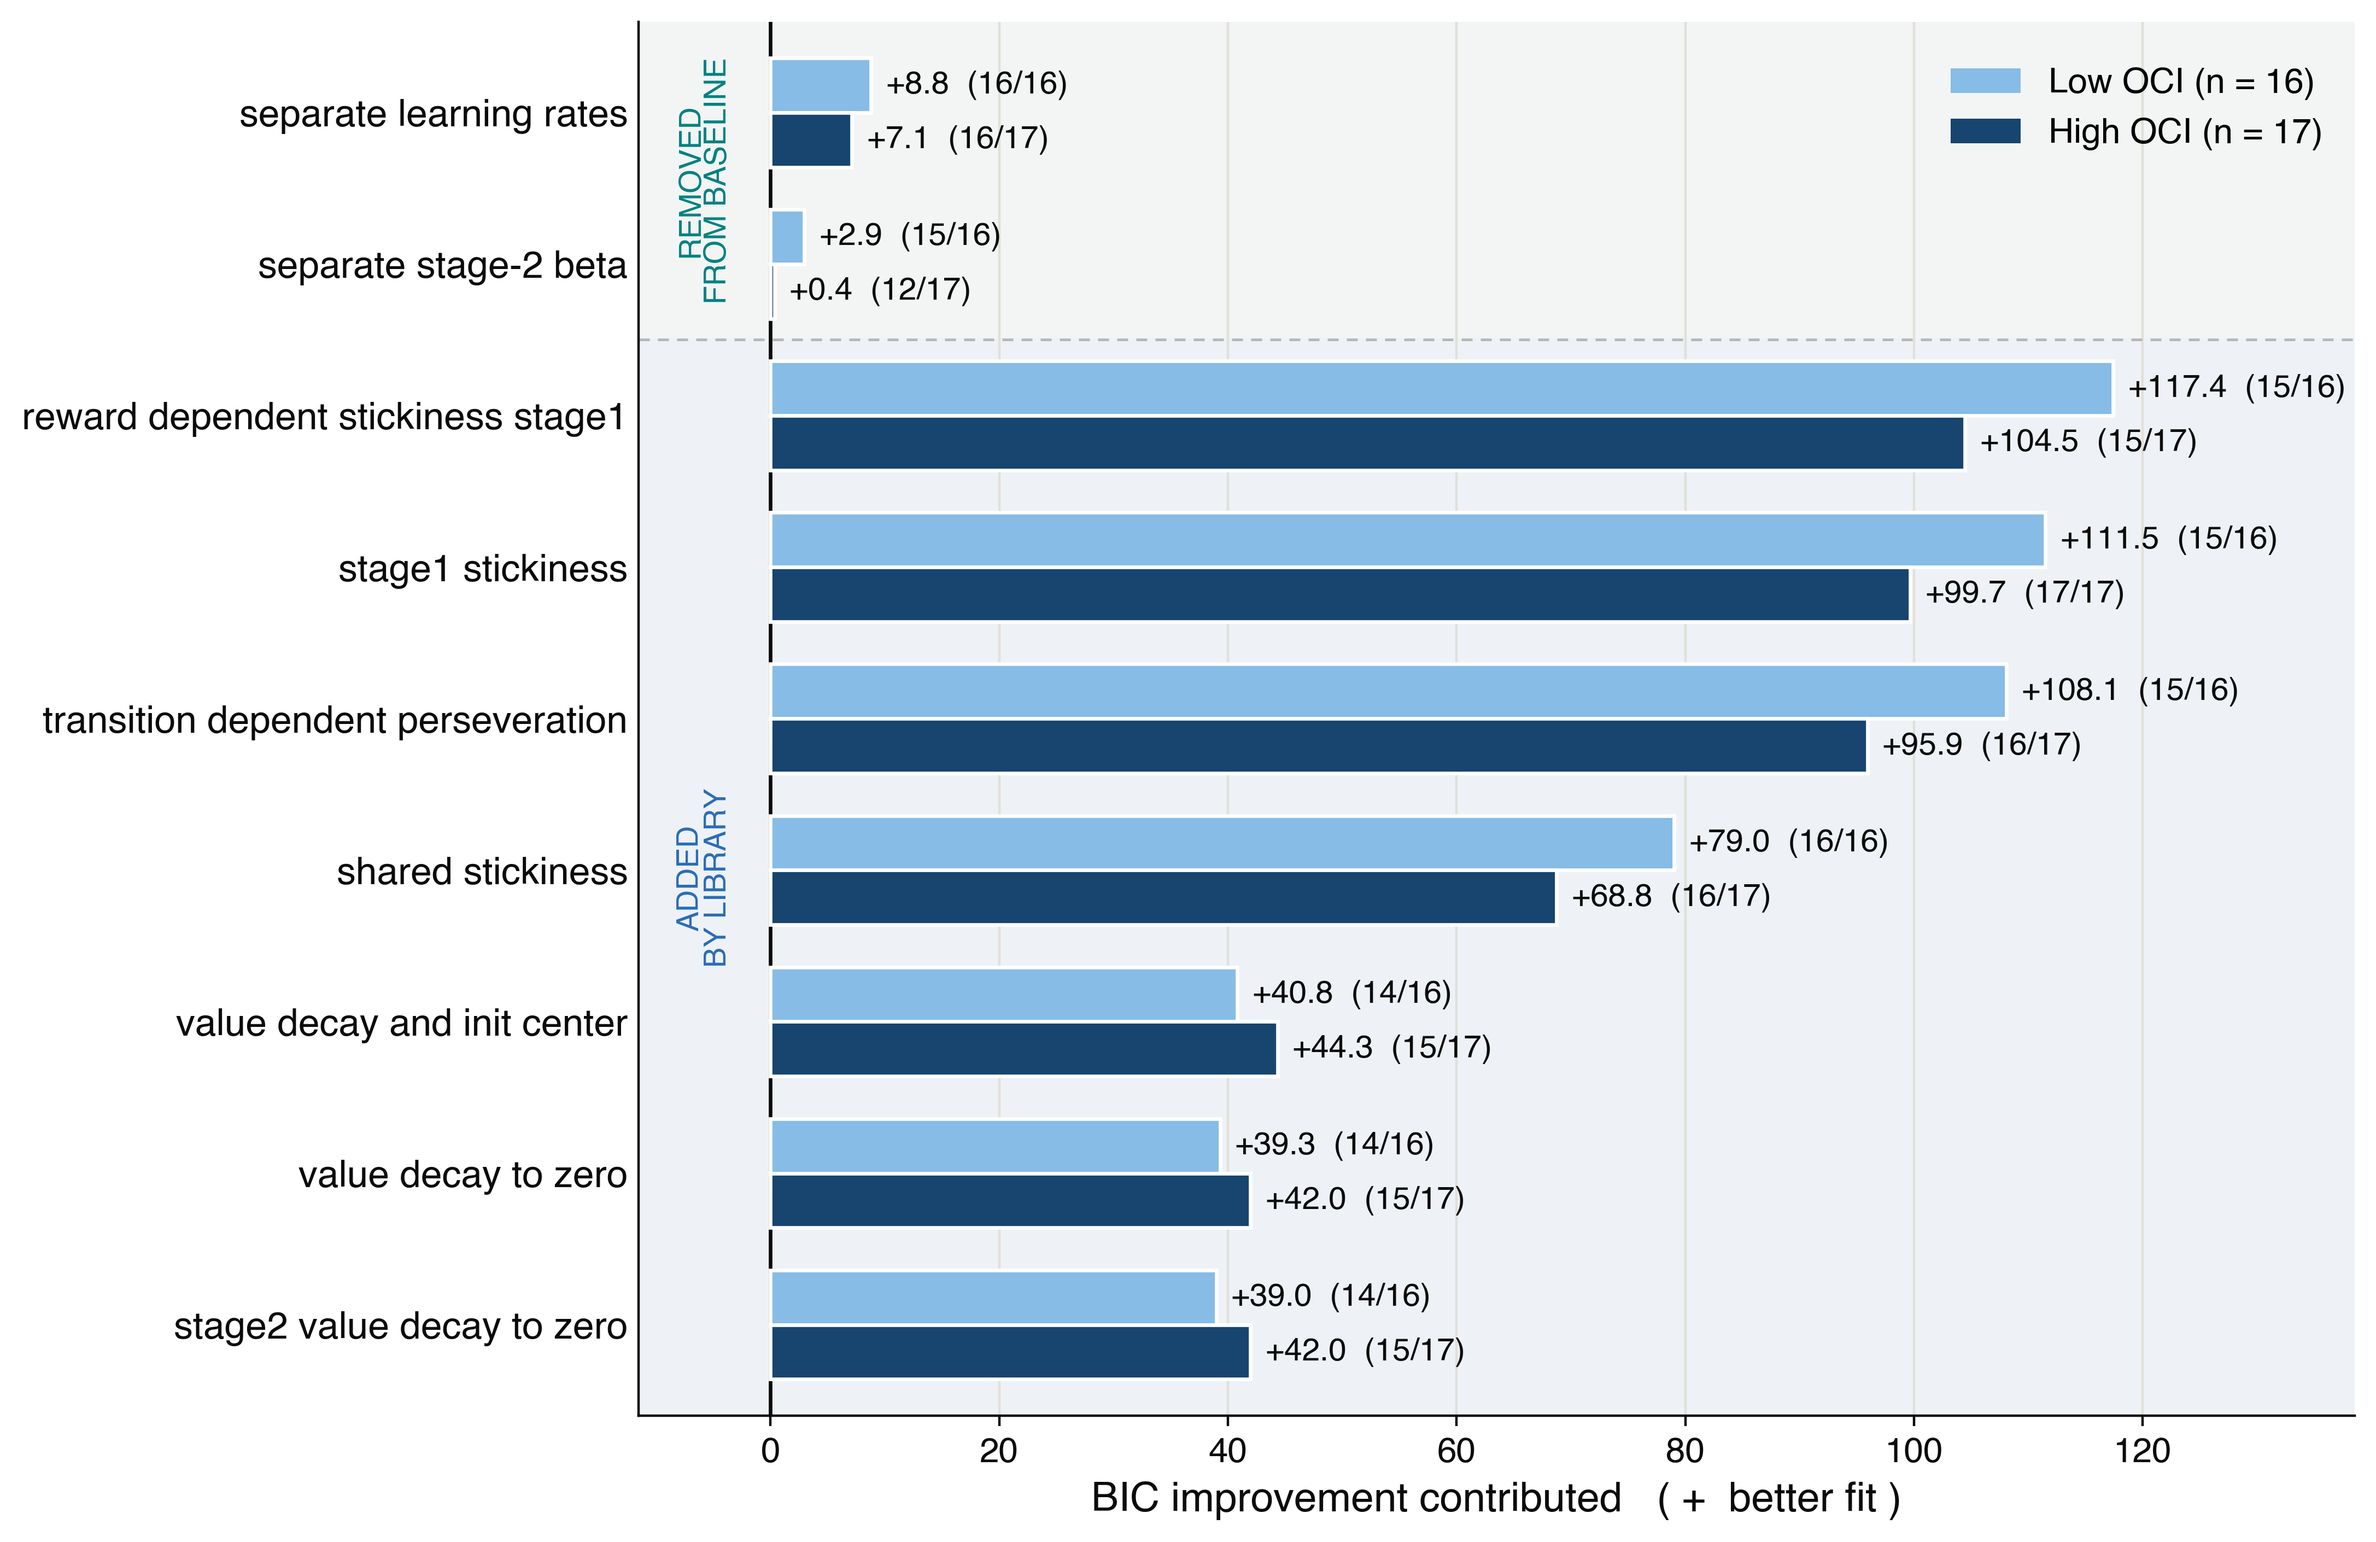
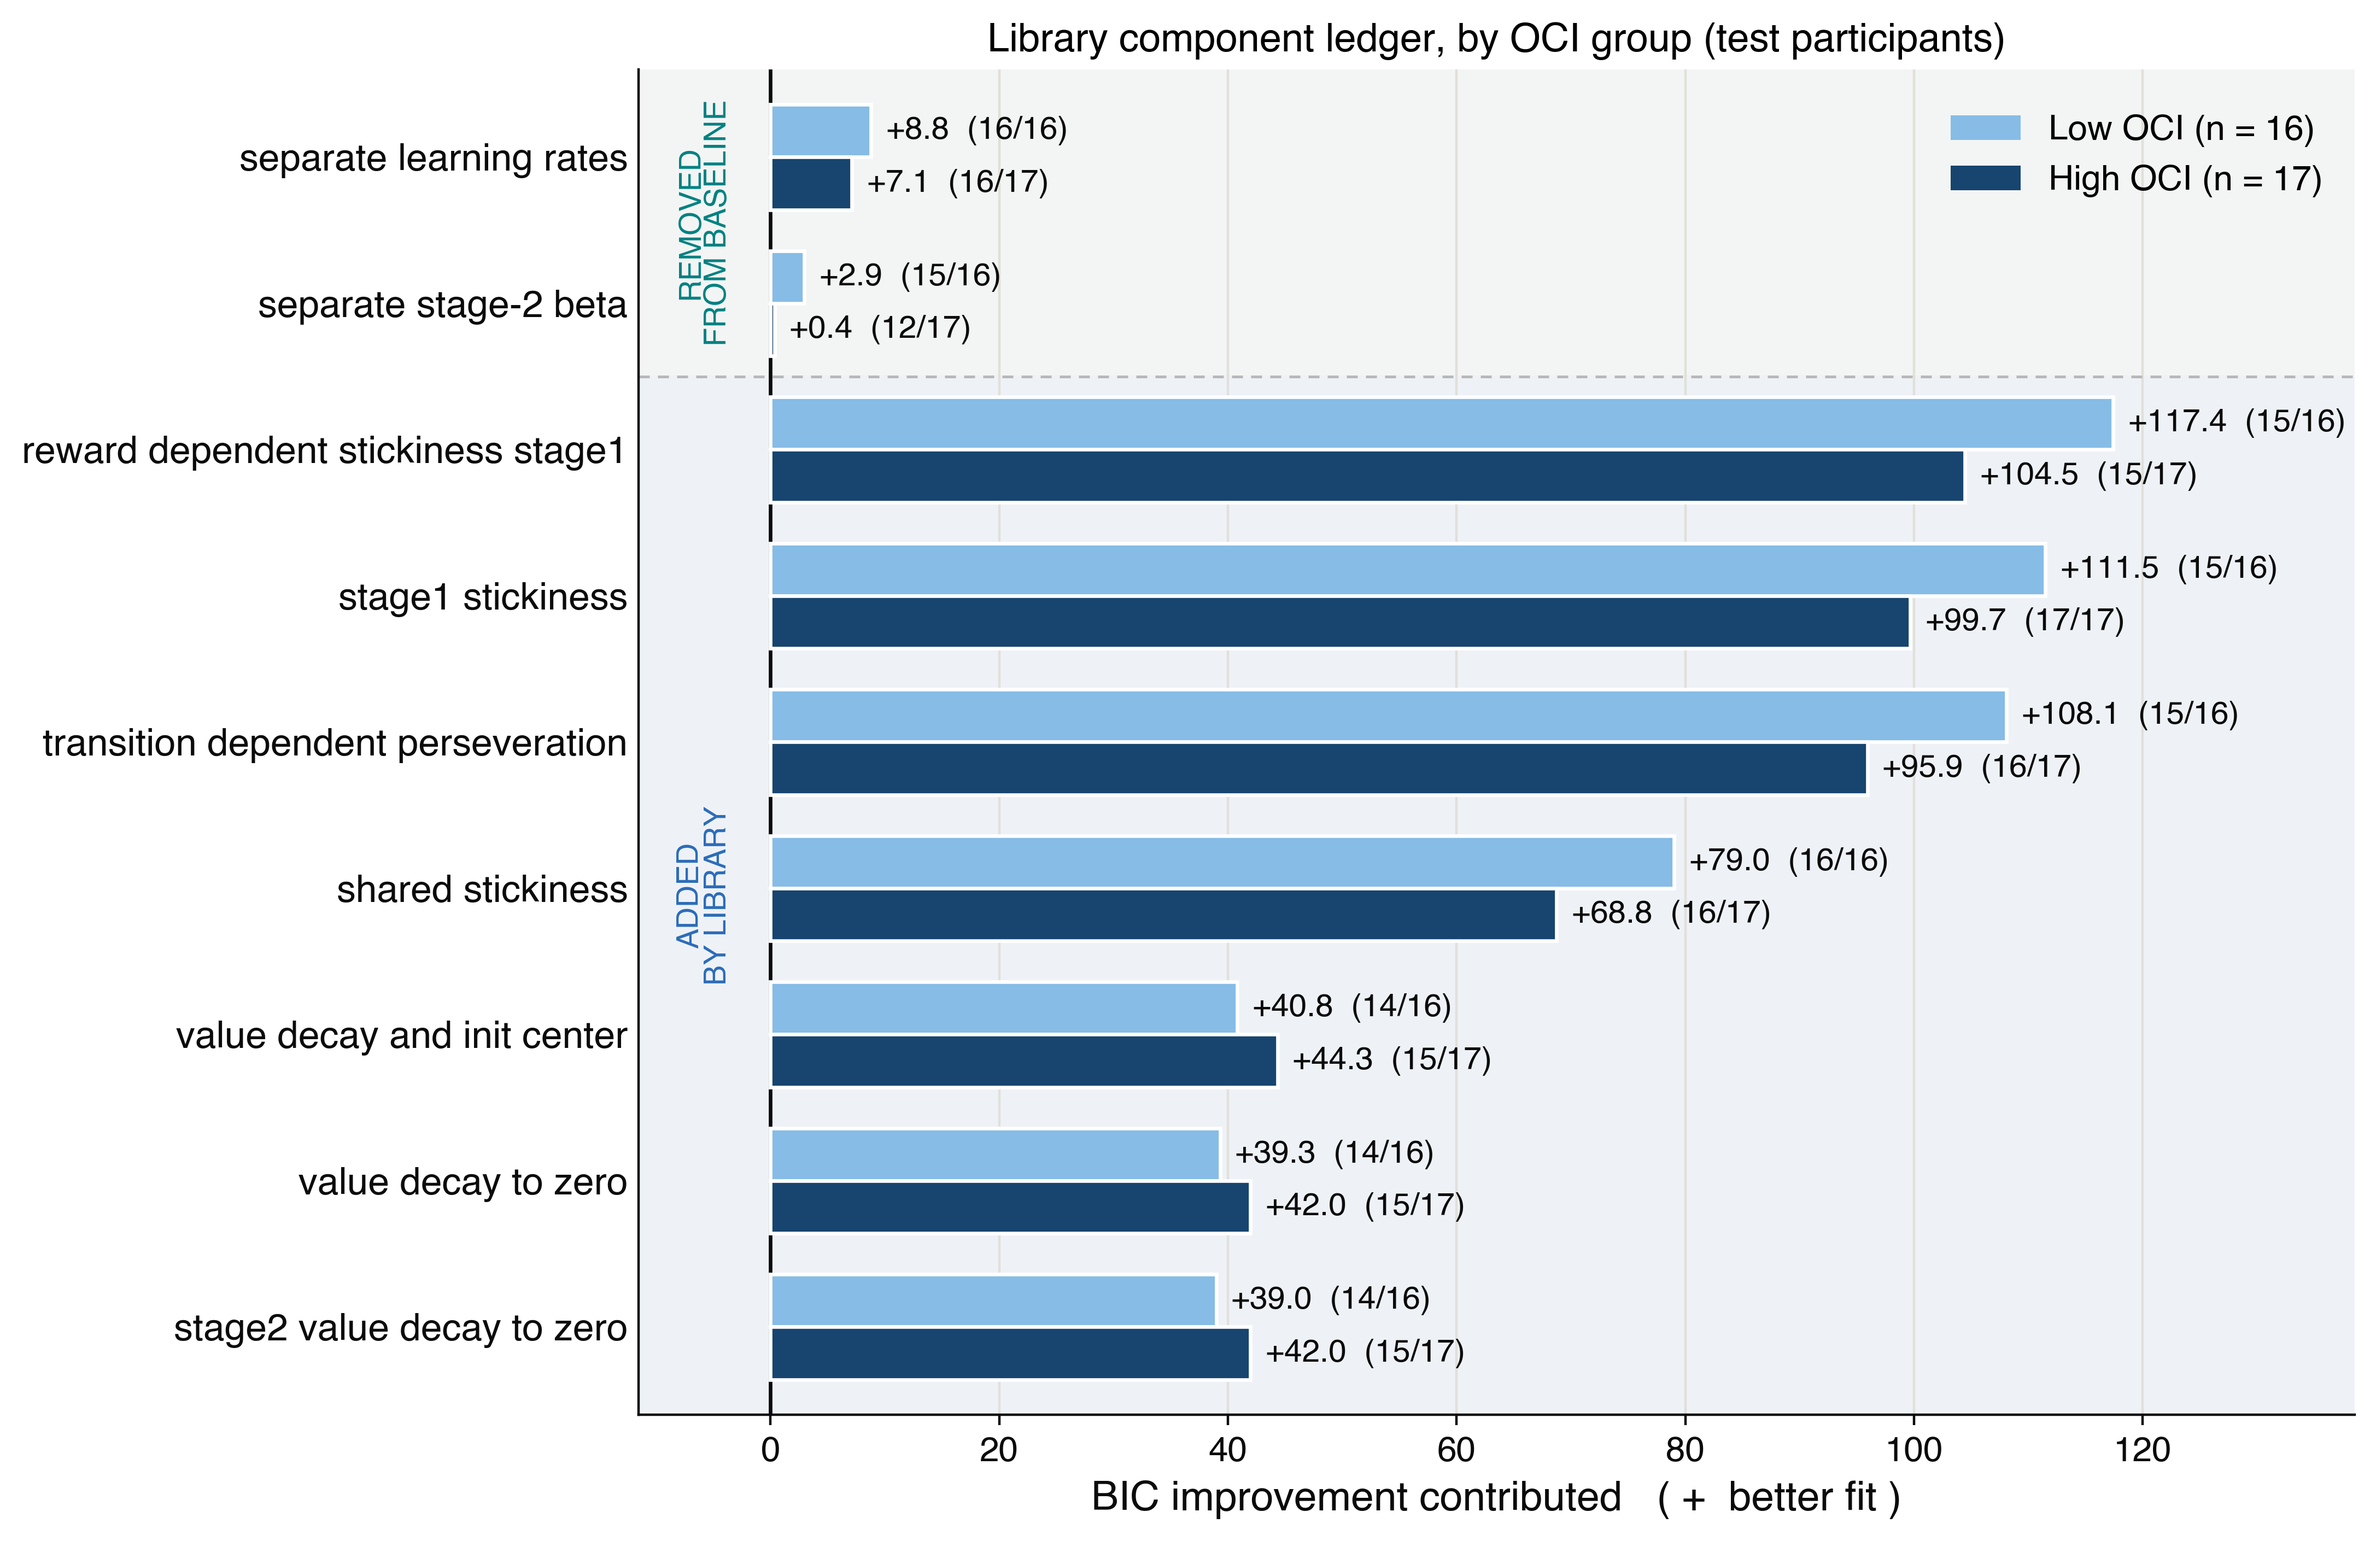
analysis: v2 poster ledger selecting mechanisms most different by OCI (MB/MF control helps low-OCI ~2x more)

diff --git a/analysis/two_step_task/plot_component_ledger_oci.py b/analysis/two_step_task/plot_component_ledger_oci.py
@@ -106,6 +106,16 @@ def main():
     pooled_gain = {m: grp_mean(g, pids) for m, g in gains.items()}
     top_add = sorted(pooled_gain, key=pooled_gain.get, reverse=True)[:N_ADD]
 
+    # v2 selection: modules where Low vs High OCI differ most, with a floor so
+    # at least one group shows a reasonable improvement (else a big % difference
+    # between two tiny gains would dominate).
+    FLOOR = 8.0
+    add_low = {m: grp_mean(gains[m], by_t["Low"]) for m in gains}
+    add_high = {m: grp_mean(gains[m], by_t["High"]) for m in gains}
+    reasonable = [m for m in gains if max(add_low[m], add_high[m]) >= FLOOR]
+    diff_add = sorted(reasonable, key=lambda m: abs(add_high[m] - add_low[m]),
+                      reverse=True)[:N_ADD]
+
     # removals: keep only components whose removal IMPROVES fit (pooled full-abl > 0)
     rm_modules = [m for m in BASE if have_rem and grp_mean(rem[m], pids) > 0]
     n_rm = len(rm_modules)
@@ -170,14 +180,23 @@ def main():
     fig.savefig(FIG / "library_component_ledger_overall.pdf")
     plt.close(fig)
 
-    # ---- poster-ready Low-vs-High OCI ledger ----
-    _poster(rows, rm_modules, top_add, rem, gains, by_t)
+    # ---- poster-ready Low-vs-High OCI ledgers (two selections) ----
+    _poster(rm_modules, top_add, rem, gains, by_t,
+            "library_component_ledger_poster",
+            "Library component ledger, by OCI group (test participants)")
+    _poster(rm_modules, diff_add, rem, gains, by_t,
+            "library_component_ledger_poster_ocidiff",
+            "Mechanisms most different between Low and High OCI")
 
     print("removals present:", have_rem)
     print("top added modules (pooled gain over backbone):")
     for m in top_add:
         print("  %-34s %+.1f" % (m, pooled_gain[m]))
-    print("saved library_component_ledger{,_overall,_poster}.{png,pdf}")
+    print("\nv2: modules where Low/High OCI differ most (floor %.0f):" % FLOOR)
+    for m in diff_add:
+        print("  %-34s low %+.1f  high %+.1f  |diff| %.1f"
+              % (m, add_low[m], add_high[m], abs(add_high[m] - add_low[m])))
+    print("saved library_component_ledger{,_overall,_poster,_poster_ocidiff}.{png,pdf}")
 
 
 def _clean(label):
@@ -188,13 +207,15 @@ def _npos(d, grp):  # count of participants in grp with positive contribution
     return sum(1 for p in grp if p in d and d[p] > 0)
 
 
-def _poster(rows, rm_modules, top_add, rem, gains, by_t):
+def _poster(rm_modules, add_modules, rem, gains, by_t, fname, title):
     LOW_C, HIGH_C = "#86bce6", "#17456f"          # low = lighter, high = darker
     BAND_RM, BAND_ADD, GRID = "#f3f5f4", "#eef2f7", "#e1e0d9"
     n_rm = len(rm_modules)
     nlow, nhigh = len(by_t["Low"]), len(by_t["High"])
-    raw = {**{m: rem[m] for m in rm_modules}, **{m: gains[m] for m in top_add}}
-    order = rm_modules + top_add  # top-to-bottom
+    raw = {**{m: rem[m] for m in rm_modules}, **{m: gains[m] for m in add_modules}}
+    order = rm_modules + add_modules  # top-to-bottom
+    rows = ([(RM_LABEL[m], "rm") for m in rm_modules]
+            + [(module_pretty(m), "add") for m in add_modules])
     yp = np.arange(len(rows))[::-1]
     hh = 0.36
     fig, ax = plt.subplots(figsize=(11.0, 0.62 * len(rows) + 1.6))
@@ -207,7 +228,7 @@ def _poster(rows, rm_modules, top_add, rem, gains, by_t):
     all_vals = [grp_mean(raw[m], by_t[t]) for m in order for t in GROUPS]
     xmax = max(all_vals) * 1.18
     xmin = min(min(all_vals), 0) - 0.04 * xmax - 6
-    for i, (m, (lbl, kind, vals)) in enumerate(zip(order, rows)):
+    for i, (m, (lbl, kind)) in enumerate(zip(order, rows)):
         yi = yp[i]
         gl, gh = grp_mean(raw[m], by_t["Low"]), grp_mean(raw[m], by_t["High"])
         cl, ch = _npos(raw[m], by_t["Low"]), _npos(raw[m], by_t["High"])
@@ -225,6 +246,7 @@ def _poster(rows, rm_modules, top_add, rem, gains, by_t):
         ax.axvline(gx, color=GRID, lw=0.8, zorder=0)
     ax.set_yticks(yp); ax.set_yticklabels([_clean(r[0]) for r in rows], fontsize=12.5)
     ax.set_xlim(xmin, xmax); ax.set_ylim(bot, top)
+    ax.set_title(title, fontsize=13)
     ax.set_xlabel("BIC improvement contributed   ( +  better fit )", fontsize=13.5)
     ax.tick_params(axis="y", length=0); ax.tick_params(axis="x", labelsize=11.5)
     if n_rm and n_rm < len(rows):
@@ -239,8 +261,8 @@ def _poster(rows, rm_modules, top_add, rem, gains, by_t):
     for s in ("top", "right"):
         ax.spines[s].set_visible(False)
     fig.tight_layout()
-    fig.savefig(FIG / "library_component_ledger_poster.png", dpi=400)
-    fig.savefig(FIG / "library_component_ledger_poster.pdf")
+    fig.savefig(FIG / (fname + ".png"), dpi=400)
+    fig.savefig(FIG / (fname + ".pdf"))
     plt.close(fig)
 
 
